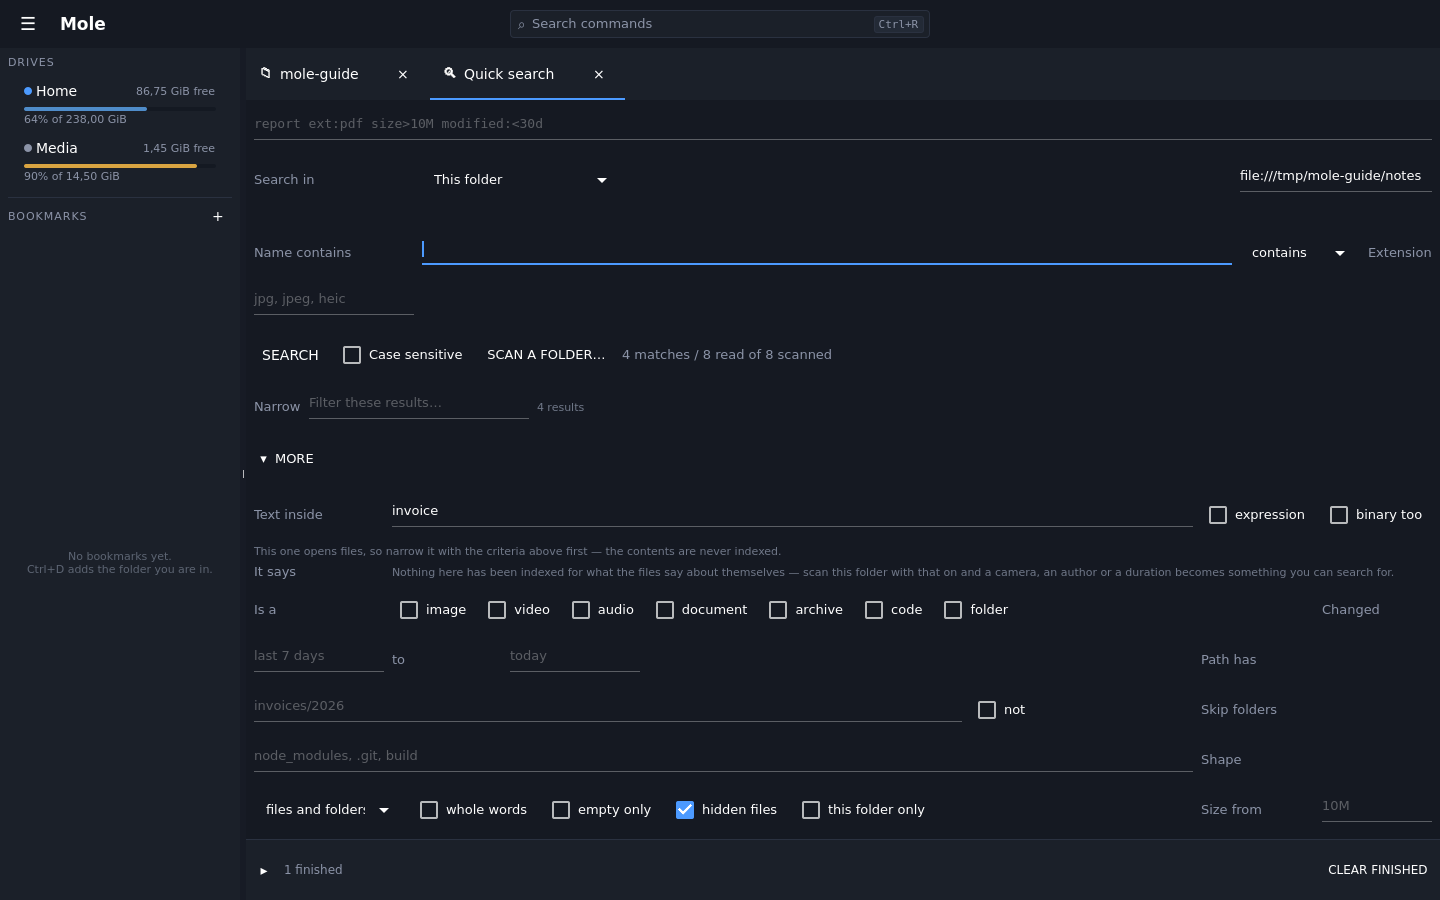
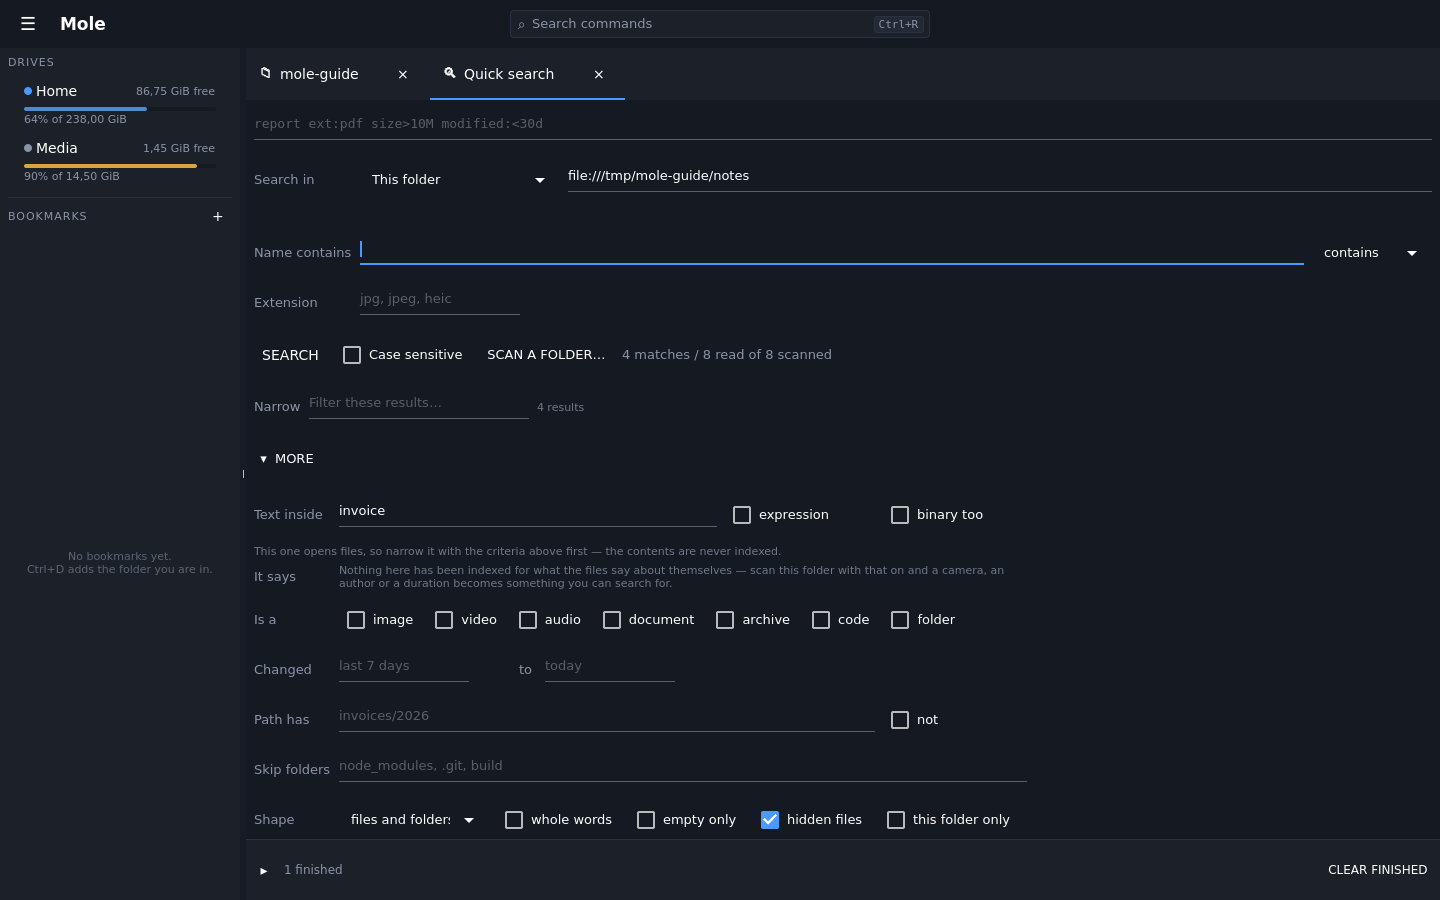
Every criterion label in the search form sits beside its own field
Both of LiveSearchView's criteria grids had rows one cell short. A GridLayout
wraps at `columns`, so a short row does not leave a gap at the end -- it pulls
the next item up into it, and the deficit accumulates. Six labels in the More
panel each ended up a row above the field they name, stranded in a column down
the right-hand edge, and in the basic form `Extension` was dragged onto the
query row so its own field started a row alone.

Seven spans, so each logical row fills its grid. Six of them are proved
load-bearing by reverting them one at a time and watching the new test fail; the
seventh, the filler on the `Size from` row, is followed by an item that wraps
either way, so it leaves a gap rather than displacing a label -- kept because the
`Changed` row above it has the identical shape and does need it.

tst_SearchForm compares each label's vertical band against its own field's,
across four states, which is the guard against a criterion added later putting
the arithmetic out again. The ticket also offered restructuring both grids into
a column of RowLayouts; the assertion is what holds the rows either way, so the
smaller change was taken.

4 of 54 guide pictures changed. Rows that stack properly take about 37 px more
room than rows crammed into a column, which in a 900-tall window puts the size
range under the task strip with nothing to scroll -- pre-existing, newly
visible, and now MOLE-272.

Closes MOLE-270

diff --git a/src/app/ui/LiveSearchView.qml b/src/app/ui/LiveSearchView.qml
@@ -117,6 +117,15 @@ Item {
                 id: queryField
                 objectName: "searchQueryField"
                 Layout.fillWidth: true
+                // Two cells, so this row fills the grid. A GridLayout wraps at
+                // `columns`, and an item that will not fit in what is left of a row
+                // moves to the next one -- so a row one cell short does not leave a
+                // gap at the end, it pulls the next item up into it. With this at one
+                // cell the row came to three of four and "Extension" was dragged onto
+                // it, leaving its own field to start a row alone. Every row in both
+                // grids has to add up, and tst_SearchForm holds that by comparing
+                // each label's position against its field's. See MOLE-270.
+                Layout.columnSpan: 2
                 text: controller ? controller.queryText : ""
                 selectByMouse: true
                 font.pixelSize: App.secondaryTextSize
@@ -395,7 +404,8 @@ Item {
             Label { text: "Is a"; color: "#8b93a7"; font.pixelSize: App.secondaryTextSize }
             Flow {
                 objectName: "typeClasses"
-                Layout.columnSpan: 4
+                // Five, so this row fills the grid's six -- see searchQueryField above.
+                Layout.columnSpan: 5
                 Layout.fillWidth: true
                 spacing: 6
 
@@ -439,12 +449,12 @@ Item {
                 font.pixelSize: App.secondaryTextSize
                 onTextEdited: if (controller) controller.modifiedTo = text
             }
-            Item { Layout.fillWidth: true }
+            Item { Layout.fillWidth: true; Layout.columnSpan: 2 }
 
             Label { text: "Path has"; color: "#8b93a7"; font.pixelSize: App.secondaryTextSize }
             TextField {
                 objectName: "pathField"
-                Layout.columnSpan: 3
+                Layout.columnSpan: 4
                 Layout.fillWidth: true
                 placeholderText: "invoices/2026"
                 text: controller ? controller.pathText : ""
@@ -462,7 +472,7 @@ Item {
             Label { text: "Skip folders"; color: "#8b93a7"; font.pixelSize: App.secondaryTextSize }
             TextField {
                 objectName: "excludedField"
-                Layout.columnSpan: 4
+                Layout.columnSpan: 5
                 Layout.fillWidth: true
                 placeholderText: "node_modules, .git, build"
                 text: controller ? controller.excluded : ""
@@ -472,7 +482,7 @@ Item {
 
             Label { text: "Shape"; color: "#8b93a7"; font.pixelSize: App.secondaryTextSize }
             RowLayout {
-                Layout.columnSpan: 4
+                Layout.columnSpan: 5
                 Layout.fillWidth: true
                 spacing: 8
 
@@ -533,7 +543,7 @@ Item {
                 font.pixelSize: App.secondaryTextSize
                 onTextEdited: if (controller) controller.setSizeRange(minSizeField.text, maxSizeField.text)
             }
-            Item { Layout.fillWidth: true }
+            Item { Layout.fillWidth: true; Layout.columnSpan: 2 }
 
             // The index answers instantly and might be out of date, so the toggle
             // sits with the criteria and says how old it is. See ADR-0005. It is

diff --git a/tests/app/tst_SearchForm.cpp b/tests/app/tst_SearchForm.cpp
@@ -1,0 +1,210 @@
+#include "plugins/builtin/SearchFeatures.h"
+#include "support/QmlAppHarness.h"
+#include "support/TestSupport.h"
+#include "ui/AppController.h"
+#include "ui/models/TabsModel.h"
+
+#include "core/CoreMetaTypes.h"
+
+#include <QGuiApplication>
+#include <QQuickItem>
+#include <QQuickStyle>
+#include <QQuickWindow>
+#include <QTest>
+
+using namespace mole;
+using namespace mole::test;
+
+/// Where the search form's criteria actually land on the screen.
+///
+/// `LiveSearchView` laid its criteria out in two `GridLayout`s and neither one's
+/// rows added up. A `GridLayout` fills cells in order and wraps at `columns`, so a
+/// row that uses one cell fewer than the grid has does not leave a gap at the end --
+/// it pulls the next item up into it, and everything after that is out by one.
+/// Because the deficit accumulated, six labels in the More panel each ended up on a
+/// different row from the field they name, and `Extension` in the basic form began a
+/// row on its own.
+///
+/// Asserted by comparing positions rather than by looking, which is the only kind of
+/// claim that survives a font change -- and by comparing a label against *its own*
+/// field, because "the form looks wrong" is not something a test can hold.
+/// See MOLE-270.
+class TestSearchForm : public QObject
+{
+    Q_OBJECT
+
+private slots:
+    void init();
+    void cleanup();
+
+    void everyLabelIsOnTheSameRowAsItsField_data();
+    void everyLabelIsOnTheSameRowAsItsField();
+
+private:
+    LiveSearchController* openSearch();
+    /// Every visible item whose `text` is exactly this.
+    QList<QQuickItem*> labelsSaying(const QString& text) const;
+    QQuickItem* shown(const QString& objectName) const;
+    static void collect(QQuickItem* root, const QString& text, QList<QQuickItem*>& into);
+    /// The item's top and bottom in scene coordinates.
+    static QPair<qreal, qreal> band(QQuickItem* item);
+
+    std::unique_ptr<QmlAppHarness> m_harness;
+};
+
+void TestSearchForm::init()
+{
+    m_harness = std::make_unique<QmlAppHarness>();
+    QString error;
+    QVERIFY2(m_harness->start({}, &error), qPrintable(error));
+}
+
+void TestSearchForm::cleanup()
+{
+    m_harness.reset();
+}
+
+LiveSearchController* TestSearchForm::openSearch()
+{
+    const int row = m_harness->app()->openFeatureTab(QStringLiteral("mole.livesearch"));
+    return row < 0 ? nullptr
+                   : qobject_cast<LiveSearchController*>(m_harness->app()->tabs()->controllerAt(row));
+}
+
+void TestSearchForm::collect(QQuickItem* root, const QString& text, QList<QQuickItem*>& into)
+{
+    if (!root)
+        return;
+    if (root->isVisible() && root->property("text").toString() == text)
+        into.append(root);
+    const QList<QQuickItem*> children = root->childItems();
+    for (QQuickItem* child : children)
+        collect(child, text, into);
+}
+
+QList<QQuickItem*> TestSearchForm::labelsSaying(const QString& text) const
+{
+    QList<QQuickItem*> found;
+    collect(m_harness->window()->contentItem(), text, found);
+    return found;
+}
+
+QQuickItem* TestSearchForm::shown(const QString& objectName) const
+{
+    for (QQuickItem* candidate : m_harness->items(objectName)) {
+        if (candidate->isVisible())
+            return candidate;
+    }
+    return nullptr;
+}
+
+QPair<qreal, qreal> TestSearchForm::band(QQuickItem* item)
+{
+    const qreal top = item->mapToScene(QPointF(0, 0)).y();
+    return { top, top + item->height() };
+}
+
+void TestSearchForm::everyLabelIsOnTheSameRowAsItsField_data()
+{
+    QTest::addColumn<bool>("advanced");
+    QTest::addColumn<bool>("withContent");
+    QTest::addColumn<bool>("everywhere");
+
+    // The conditional rows change which cells are filled, so the claim has to hold
+    // with them visible and not: `contentCost` appears once there is text to search
+    // for, and `useIndexToggle` disappears when the scope is everywhere indexed.
+    QTest::newRow("basic form only") << false << false << false;
+    QTest::newRow("More open") << true << false << false;
+    QTest::newRow("More open, searching contents") << true << true << false;
+    QTest::newRow("More open, everywhere indexed") << true << false << true;
+}
+
+void TestSearchForm::everyLabelIsOnTheSameRowAsItsField()
+{
+    QFETCH(bool, advanced);
+    QFETCH(bool, withContent);
+    QFETCH(bool, everywhere);
+
+    LiveSearchController* search = openSearch();
+    QVERIFY(search);
+    search->setEverywhere(everywhere);
+    if (withContent)
+        search->setContentText(QStringLiteral("something"));
+    m_harness->settle(4);
+
+    if (advanced) {
+        QQuickItem* toggle = shown(QStringLiteral("advancedToggle"));
+        QVERIFY(toggle);
+        QVERIFY(m_harness->clickOn(toggle));
+        QVERIFY(m_harness->until([this] { return shown(QStringLiteral("minSizeField")) != nullptr; }));
+    }
+    m_harness->settle(4);
+
+    // Label, and the field it names. Written out rather than derived: which field a
+    // label belongs to is the one thing the layout cannot tell us, and it is exactly
+    // what was wrong.
+    QList<QPair<QString, QString>> pairs {
+        { QStringLiteral("Search in"), QStringLiteral("searchScope") },
+        { QStringLiteral("Name contains"), QStringLiteral("searchQueryField") },
+        { QStringLiteral("Extension"), QStringLiteral("extensionField") },
+    };
+    if (advanced) {
+        pairs.append({ QStringLiteral("Text inside"), QStringLiteral("contentField") });
+        pairs.append({ QStringLiteral("Is a"), QStringLiteral("typeClasses") });
+        pairs.append({ QStringLiteral("Changed"), QStringLiteral("modifiedFromField") });
+        pairs.append({ QStringLiteral("to"), QStringLiteral("modifiedToField") });
+        pairs.append({ QStringLiteral("Path has"), QStringLiteral("pathField") });
+        pairs.append({ QStringLiteral("Skip folders"), QStringLiteral("excludedField") });
+        pairs.append({ QStringLiteral("Shape"), QStringLiteral("kindMode") });
+        pairs.append({ QStringLiteral("Size from"), QStringLiteral("minSizeField") });
+        pairs.append({ QStringLiteral("to"), QStringLiteral("maxSizeField") });
+    }
+
+    QStringList apart;
+    for (const auto& [labelText, fieldName] : pairs) {
+        QQuickItem* field = shown(fieldName);
+        QVERIFY2(field, qPrintable(QStringLiteral("no visible %1").arg(fieldName)));
+        const QList<QQuickItem*> labels = labelsSaying(labelText);
+        QVERIFY2(!labels.isEmpty(), qPrintable(QStringLiteral("no label says \"%1\"").arg(labelText)));
+
+        // Overlapping vertically is the claim -- a label and its field are on one row
+        // when their bands meet. Not equal tops: a label is shorter than a text field
+        // and sits centred in the row.
+        const auto [fieldTop, fieldBottom] = band(field);
+        bool together = false;
+        qreal nearest = -1;
+        for (QQuickItem* label : labels) {
+            const auto [labelTop, labelBottom] = band(label);
+            if (labelTop < fieldBottom && labelBottom > fieldTop) {
+                together = true;
+                break;
+            }
+            nearest = labelTop;
+        }
+        if (!together) {
+            apart.append(QStringLiteral("\"%1\" at y=%2 but %3 at y=%4..%5")
+                             .arg(labelText)
+                             .arg(nearest)
+                             .arg(fieldName)
+                             .arg(fieldTop)
+                             .arg(fieldBottom));
+        }
+    }
+
+    QVERIFY2(apart.isEmpty(),
+        qPrintable(QStringLiteral("%1 of %2 labels are on a different row from their field:\n  %3")
+                       .arg(apart.size())
+                       .arg(pairs.size())
+                       .arg(apart.join(QStringLiteral("\n  ")))));
+}
+
+int main(int argc, char** argv)
+{
+    QQuickStyle::setStyle(QStringLiteral("Material"));
+    QGuiApplication app(argc, argv);
+    mole::registerCoreMetaTypes();
+    TestSearchForm test;
+    return QTest::qExec(&test, argc, argv);
+}
+
+#include "tst_SearchForm.moc"

diff --git a/DONE.md b/DONE.md
@@ -9,6 +9,57 @@ wrong.
 
 ---
 
+## Six labels in the search form were each on the wrong row
+
+**Asked for:** MOLE-270 — the criteria labels in the search form do not line up with
+their fields.
+
+**What was wrong.** `LiveSearchView` lays its criteria out in two `GridLayout`s, and
+neither one's rows added up. A `GridLayout` fills cells in order and wraps at
+`columns`, so a row that uses one cell fewer than the grid has does **not** leave a
+gap at the end — it pulls the next item up into it. Every row in the More panel was
+one cell short of six, so the deficit accumulated and six labels each ended up on a
+different row from the field they name. In the basic form the query row came to three
+of four, which dragged `Extension` onto it and left its own field starting a row
+alone. The guide picture makes it plain: before the fix, `Extension`, `Changed`,
+`Path has`, `Skip folders`, `Shape` and `Size from` are all stranded in a column down
+the right-hand edge, one row above what each of them describes.
+
+**The fix is arithmetic** — seven spans, so that each logical row fills its grid:
+`searchQueryField` to two of four, and in the More panel `typeClasses` 4→5,
+`pathField` 3→4, `excludedField` 4→5, the Shape row's `RowLayout` 4→5, and the two
+trailing fillers on the `Changed` and `Size from` rows to two cells each.
+
+The alternative the ticket offered was to restructure both grids into a column of
+`RowLayout`s, which cannot get out of step at all. It was not taken, because the
+guard against a future criterion breaking the arithmetic is the new test rather than
+the structure: `tests/app/tst_SearchForm.cpp` compares each label's vertical band
+against *its own* field's, across four states — basic form only, More open, More open
+searching contents, More open everywhere indexed. Whichever way the rows are built,
+that assertion is what holds them.
+
+**Six of the seven spans were each proved load-bearing** by reverting them one at a
+time and watching the test fail. The seventh — the filler on the `Size from` row — the
+test cannot witness, because what follows it is a span-2 checkbox that wraps to its
+own row either way, so the missing cell leaves a gap rather than displacing a label.
+It is kept anyway: the `Changed` row directly above it has the identical shape and
+does need it, and two rows that look the same wanting to be written differently is
+the trap this ticket was about.
+
+**Something it uncovered.** Rows that stack properly take more room than rows crammed
+into a right-hand column — the panel grew about 37 px — and in a 900-tall window that
+puts the size range and the `Use the index` toggle underneath the task strip. Nothing
+in that view scrolls, so at that height they are unreachable. Pre-existing, newly
+visible, and now **MOLE-272**; the guide's `12-search-box.png` stops at `Shape` where
+it used to show `Size from`.
+
+**Four guide pictures** moved — `12-search-box`, `12b-search-results`,
+`12c-search-mixed`, `12d-search-content` — out of 54. `make guide-images` reported
+nine, the other five being the ones already known to differ between any two runs;
+those were put back so the diff is the change and nothing else.
+
+---
+
 ## An emoji did not rasterise the same twice, and a scrollbar was blamed for it
 
 **Asked for:** MOLE-266 — the ticket I opened against my own wrong diagnosis in MOLE-260.

diff --git a/CHANGELOG.md b/CHANGELOG.md
@@ -11,6 +11,7 @@ the first release; they stay as they are.
 
 ## Unreleased
 
+2026-08-21 #MOLE-270 Search form: every criterion label sits beside the field it names
 2026-08-21 #MOLE-266 The list of what an operation is aimed at draws its icons from a scalable font, so they are sharp and the guide's pictures hold still
 2026-08-21 #MOLE-259 Saved reports, Indexes, Alerts and Schedule show the tab you already have instead of opening another
 2026-08-21 #MOLE-268 A scheduled job killed part way is due again after its interval, not at the next start and every start after that
